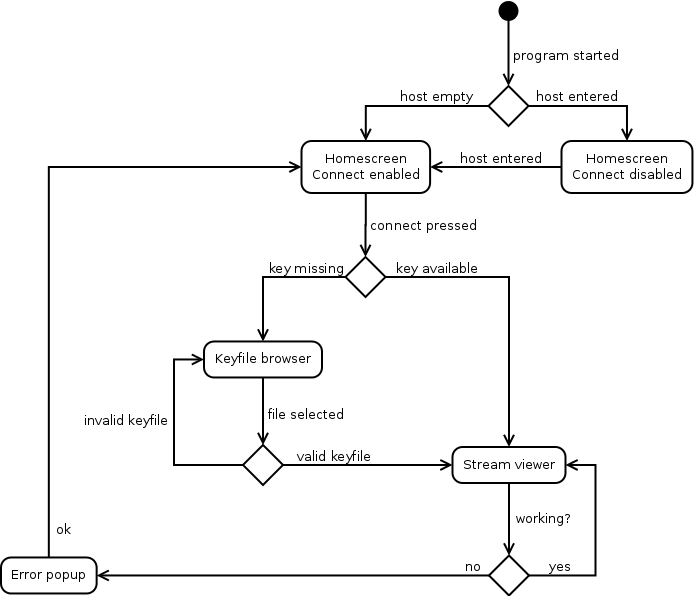
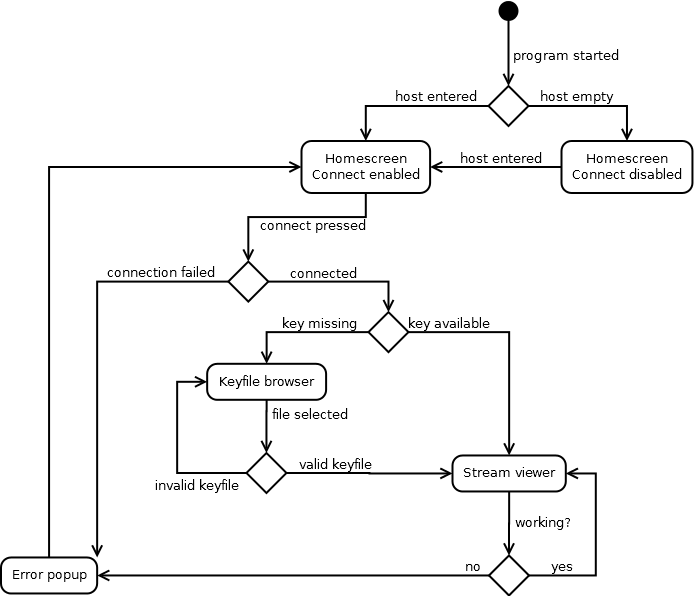
GUI activity text & diagram changed

diff --git a/design/design_document.tex b/design/design_document.tex
@@ -153,7 +153,18 @@ The following images show prototypes of the client user interface.
 \includegraphics[width=150px]{figures/images/fileChooser.png}
 \end{illustration}
 
+\clearpage
+
+
 \subsection{GUI activity}
+When starting the client app the first screen is the Homescreen. If the client already connected to a server and that server was saved, 
+the host panel is already filled out. If not, the user has to enter a host address. Once an address is entered, the connect button is enabled.
+When the connect button is pressed, the client tries to connect to the server. If it fails there is an error popup and the program goes back to 
+Homescreen. If the host address was correct and the client is able to connect, the program checks if it already connected to this server. If it 
+did, it already has the key and goes directly to the stream viewer. If the key file is missing, the file browser pops up and the user has to select 
+the necessary key. If the key is correct, the user is able to view the stream. Facing a problem like disconnection, the client shows an error and 
+goes back to Homescreen.
+
 \begin{illustration}{Activity diagram showing possible interactions with the client application.}
 \includegraphics [width=500px]{figures/gui_activity_1/gui_activity_1.png}
 \end{illustration}

diff --git a/src/cryptocast/client/filechooser/FileChooser.java b/src/cryptocast/client/filechooser/FileChooser.java
@@ -1,7 +1,7 @@
 package cryptocast.client.fileChooser;
 
 /**
- * A UI element that allows the user to browse the files and folders of the SD card and
+ * An UI element that allows the user to browse the files and folders of the SD card and
  * choose one file.
  */
 public abstract class FileChooser extends ListActivity {
